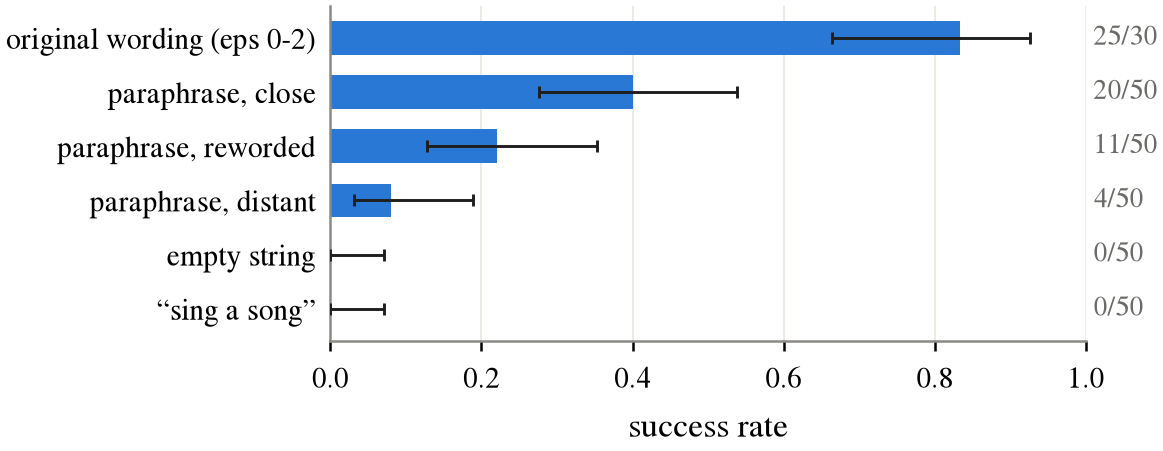
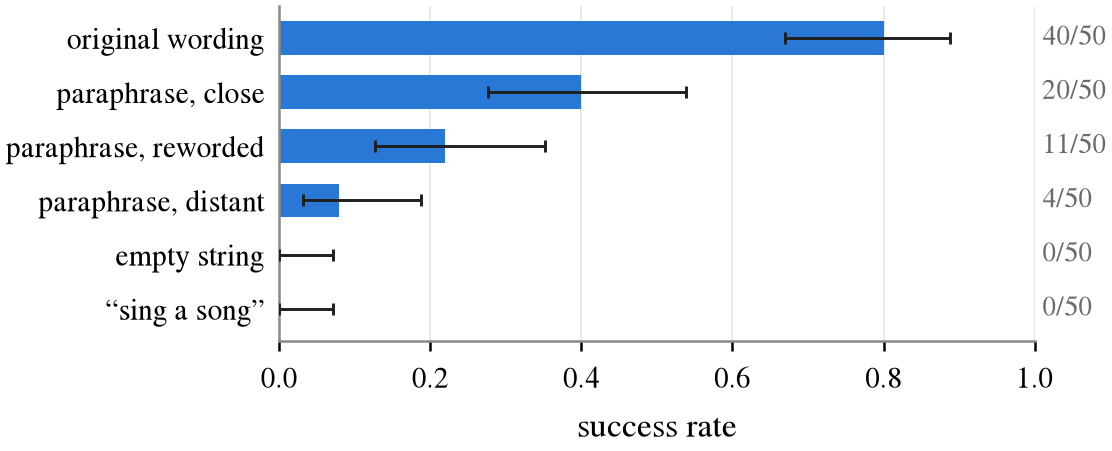
Full LIBERO-Goal baseline

diff --git a/report/results.tex b/report/results.tex
@@ -46,7 +46,8 @@ pursue.
 
 \subsection{\dots{} but to the exact words}
 The same model is brittle to rewording (Fig.~\ref{fig:variants}). Hand-written paraphrases that keep
-the goal unchanged succeed in only \LangPara{} of episodes, and the rate drops with the distance from
+the goal unchanged succeed in only \LangPara{} of episodes, against \LangOrig{} with the original
+wording on the same episodes, and the rate drops with the distance from
 the training wording: \LangParaClose{} for a close paraphrase (\emph{``place the bowl on the
 stove''}), \LangParaReworded{} for a reworded one, \LangParaDistant{} for the most distant. Small
 changes matter: \emph{``turn the stove on''} works, \emph{``switch on the stove''} does not. An empty

diff --git a/report/numbers.tex b/report/numbers.tex
@@ -1,6 +1,6 @@
 % generated by scripts/make_figures.py from results/ -- do not edit by hand
-\newcommand{\BaseGoal}{31/32 (97\%, CI 84--99)}
-\newcommand{\BaseGoalPct}{97\%}
+\newcommand{\BaseGoal}{84/100 (84\%, CI 76--90)}
+\newcommand{\BaseGoalPct}{84\%}
 \newcommand{\BaseSpatial}{59/100 (59\%, CI 49--68)}
 \newcommand{\BaseSpatialPct}{59\%}
 \newcommand{\CamXfifty}{30}
@@ -54,4 +54,4 @@
 \newcommand{\RobotXfiftyCI}{[0.05, 0.11]}
 \newcommand{\RobotXfiftyInterp}{0.048}
 \newcommand{\RobotXfiftyInterpCI}{[0.031, 0.082]}
-\newcommand{\TotalEpisodes}{1\,817}
+\newcommand{\TotalEpisodes}{1\,907}

diff --git a/scripts/make_figures.py b/scripts/make_figures.py
@@ -271,6 +271,7 @@ if "light_dimming" in curves:
 if lv is not None:
     pp = lv[lv.condition == "paraphrase"]
     macros["LangPara"] = frac(int(pp.success.sum()), len(pp))
+    macros["LangOrig"] = frac(int(ref.success.sum()), len(ref))
     for k, nm in zip(["paraphrase_0", "paraphrase_1", "paraphrase_2"], ["Close", "Reworded", "Distant"]):
         g = pp[pp.variant == k]
         macros[f"LangPara{nm}"] = f"{int(g.success.sum())}/{len(g)}"
